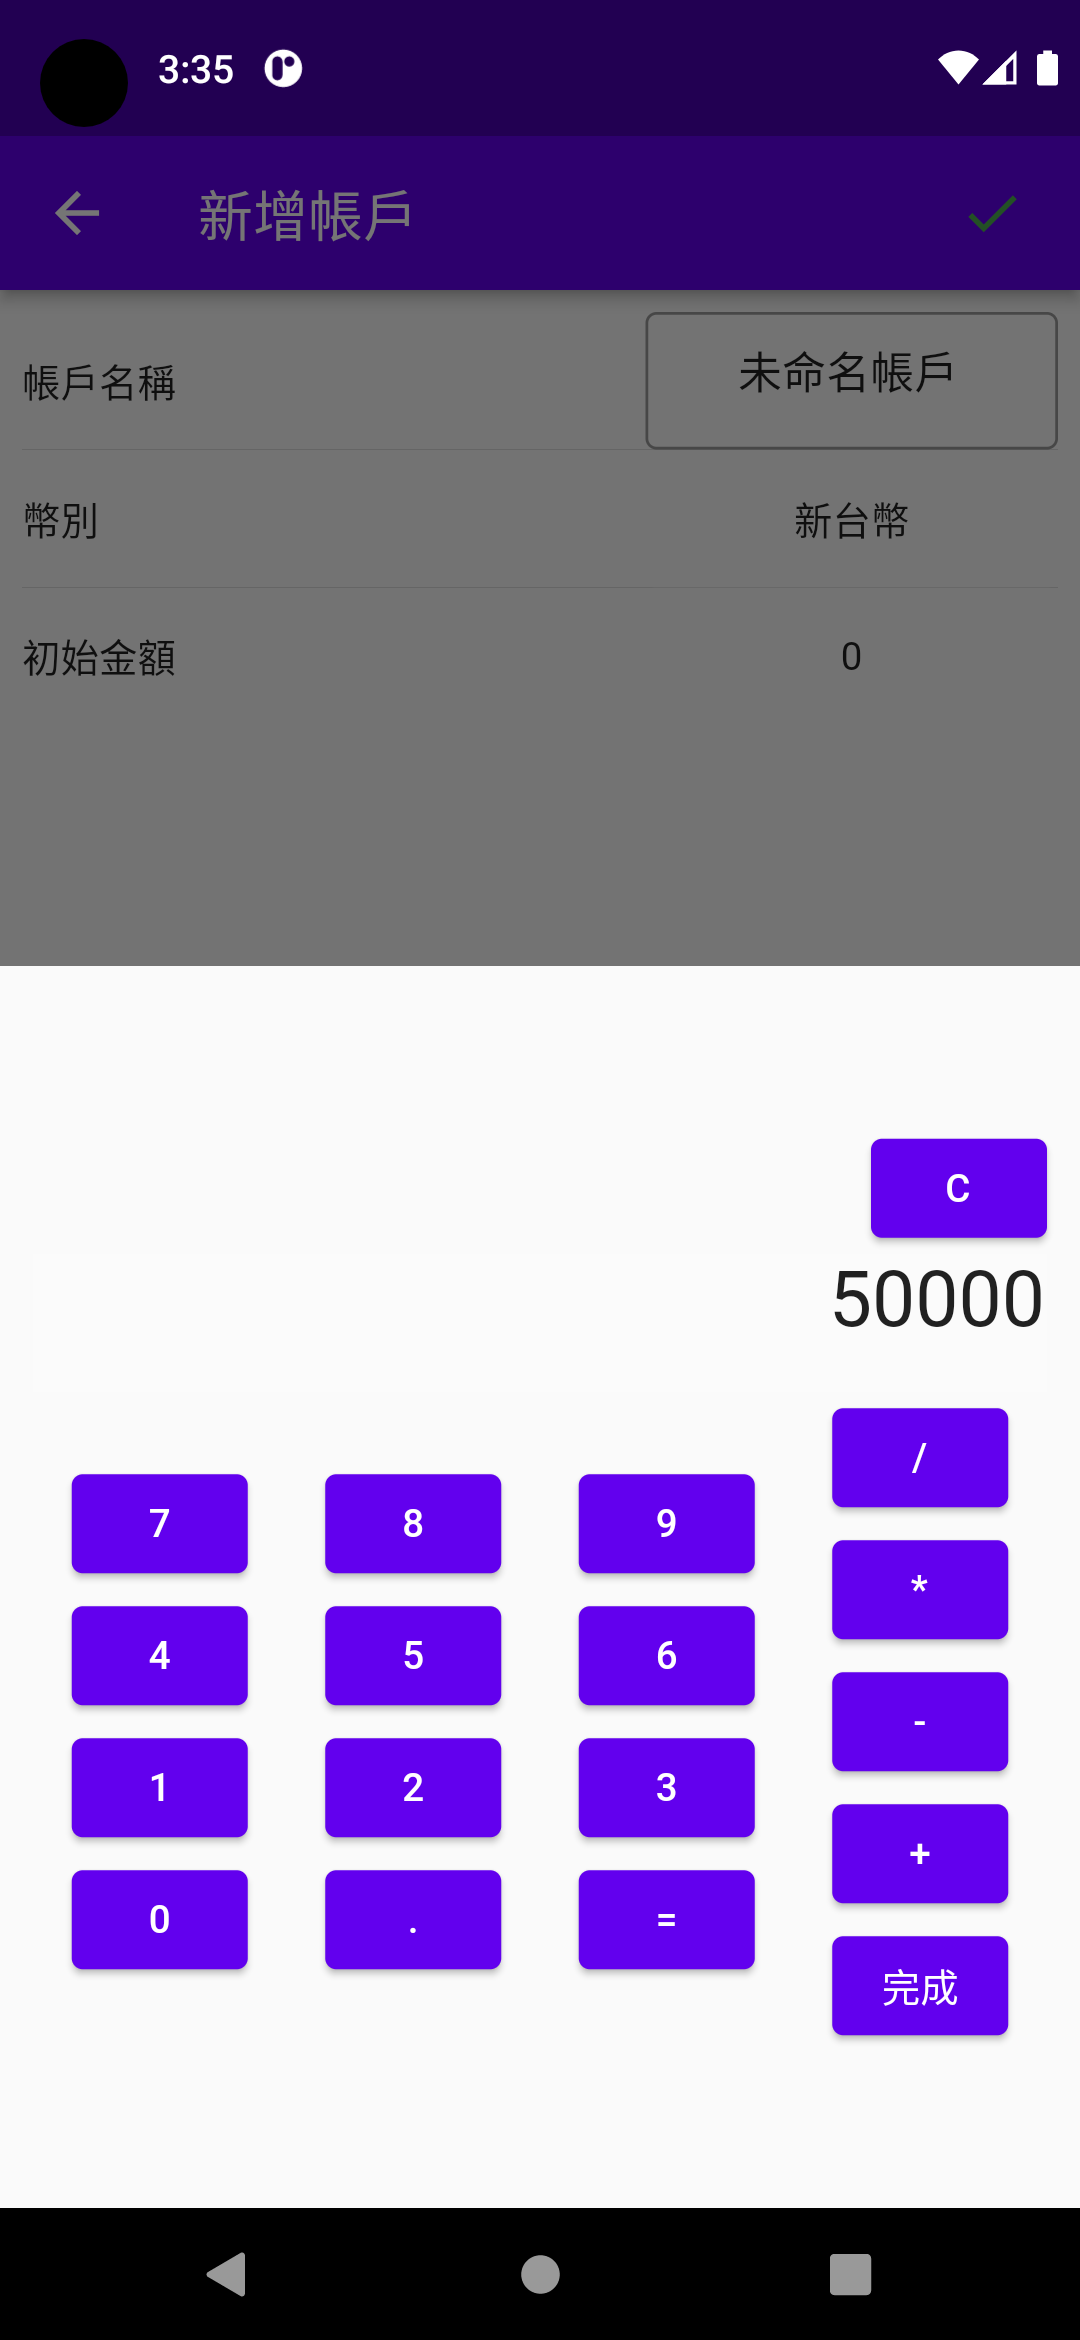
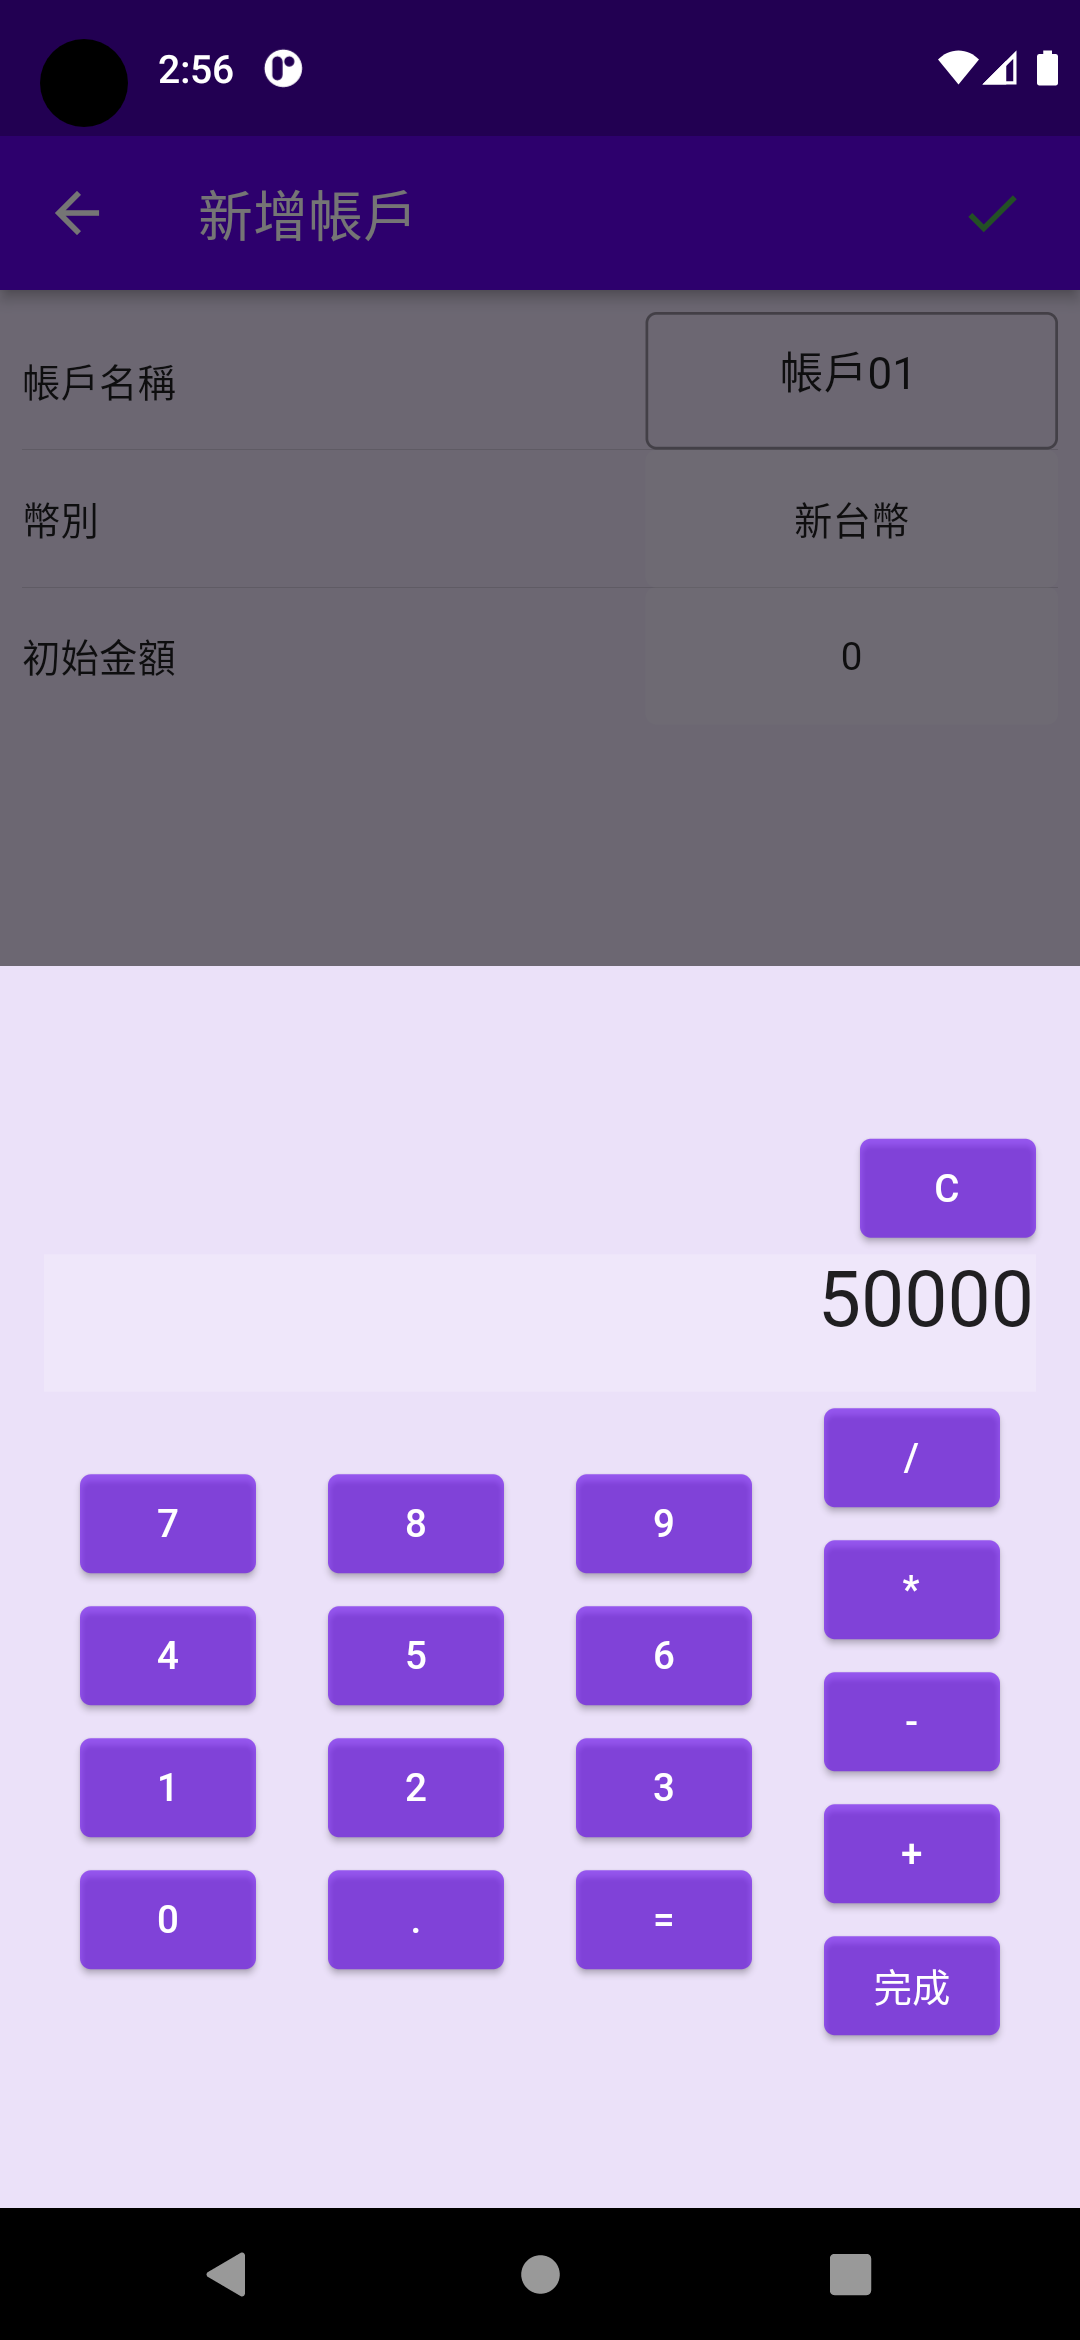
docs: edit README.md and add demo image and video

diff --git a/qq_accounting_app/lib/presentation/home/account_form/widgets/account_form_table.dart b/qq_accounting_app/lib/presentation/home/account_form/widgets/account_form_table.dart
@@ -12,44 +12,47 @@ class AccountFormTable extends StatelessWidget {
 
   @override
   Widget build(BuildContext context) {
-    return Padding(
-      padding: const EdgeInsets.all(8.0),
-      child: ListView(
-        children: ListTile.divideTiles(
-          context: context,
-          tiles: [
-            Row(
-              mainAxisAlignment: MainAxisAlignment.spaceBetween,
-              children: [
-                Text(
-                  FlutterI18n.translate(
-                      context, "home.accountForm.accountTitle"),
-                ),
-                const TitleBox(),
-              ],
-            ),
-            Row(
-              mainAxisAlignment: MainAxisAlignment.spaceBetween,
-              children: [
-                Text(
-                  FlutterI18n.translate(
-                      context, "home.accountForm.currencyType"),
-                ),
-                const CurrencyTypePickerButton(),
-              ],
-            ),
-            Row(
-              mainAxisAlignment: MainAxisAlignment.spaceBetween,
-              children: [
-                Text(
-                  FlutterI18n.translate(
-                      context, "home.accountForm.initialAmount"),
-                ),
-                const InitialAmountEnterButton(),
-              ],
-            ),
-          ],
-        ).toList(),
+    return Container(
+      color: Theme.of(context).colorScheme.primaryContainer.withOpacity(0.1),
+      child: Padding(
+        padding: const EdgeInsets.all(8.0),
+        child: ListView(
+          children: ListTile.divideTiles(
+            context: context,
+            tiles: [
+              Row(
+                mainAxisAlignment: MainAxisAlignment.spaceBetween,
+                children: [
+                  Text(
+                    FlutterI18n.translate(
+                        context, "home.accountForm.accountTitle"),
+                  ),
+                  const TitleBox(),
+                ],
+              ),
+              Row(
+                mainAxisAlignment: MainAxisAlignment.spaceBetween,
+                children: [
+                  Text(
+                    FlutterI18n.translate(
+                        context, "home.accountForm.currencyType"),
+                  ),
+                  const CurrencyTypePickerButton(),
+                ],
+              ),
+              Row(
+                mainAxisAlignment: MainAxisAlignment.spaceBetween,
+                children: [
+                  Text(
+                    FlutterI18n.translate(
+                        context, "home.accountForm.initialAmount"),
+                  ),
+                  const InitialAmountEnterButton(),
+                ],
+              ),
+            ],
+          ).toList(),
+        ),
       ),
     );
   }

diff --git a/qq_accounting_app/lib/presentation/home/account_form/widgets/amount_calculator.dart b/qq_accounting_app/lib/presentation/home/account_form/widgets/amount_calculator.dart
@@ -3,7 +3,6 @@ import 'package:flutter/material.dart';
 import 'package:flutter_bloc/flutter_bloc.dart';
 import 'package:flutter_i18n/flutter_i18n.dart';
 import 'package:math_expressions/math_expressions.dart';
-import 'package:qq_accounting_app/domain/core/amount_format.dart';
 
 import '../../../../../application/account/account_form/account_form_cubit.dart';
 import '../../../../../application/core/navigation/navigation_cubit.dart';
@@ -38,7 +37,8 @@ class AmountCalculator extends StatelessWidget {
             exp.evaluate(EvaluationType.REAL, cm).round().toString());
       }
 
-      return SizedBox(
+      return Container(
+        color: Theme.of(context).colorScheme.primaryContainer.withOpacity(0.1),
         width: mWidth,
         height: mHeight * 0.75,
         child: Padding(
@@ -172,7 +172,7 @@ class AmountCalculator extends StatelessWidget {
                           },
                           child: Text(
                             FlutterI18n.translate(context,
-                                "accountForm.amountCalculatorSavedButtonText"),
+                                "amountCalculatorSavedButtonText"),
                           ),
                         ),
                       ],

diff --git a/qq_accounting_app/lib/presentation/note/note_form/widgets/amount_calculator.dart b/qq_accounting_app/lib/presentation/note/note_form/widgets/amount_calculator.dart
@@ -1,6 +1,7 @@
 import 'package:auto_route/auto_route.dart';
 import 'package:flutter/material.dart';
 import 'package:flutter_bloc/flutter_bloc.dart';
+import 'package:flutter_i18n/flutter_i18n.dart';
 import 'package:math_expressions/math_expressions.dart';
 
 import '../../../../application/note/note_form/note_form_cubit.dart';
@@ -173,7 +174,10 @@ class AmountCalculator extends StatelessWidget {
                                 .amountSaved(state.tempAmount);
                             context.router.pop();
                           },
-                          child: const Text('完成'), // TODO 只有送出的時候才要改popup外的那個金額
+                          child: Text(
+                            FlutterI18n.translate(context,
+                                "amountCalculatorSavedButtonText"),
+                          ),
                         ),
                       ],
                     ),

diff --git a/qq_accounting_app/lib/application/core/theme/theme_state.dart b/qq_accounting_app/lib/application/core/theme/theme_state.dart
@@ -28,6 +28,13 @@ ThemeData get darkTheme => ThemeData(
 ThemeData get lightTheme => ThemeData(
       indicatorColor: const ColorScheme.light().primary,
       colorScheme: const ColorScheme.light(),
+      elevatedButtonTheme: ElevatedButtonThemeData(
+        style: ButtonStyle(
+          backgroundColor: MaterialStateProperty.all<Color>(
+            const ColorScheme.light().primary.withOpacity(0.6),
+          ),
+        ),
+      ),
       pageTransitionsTheme: const PageTransitionsTheme(
         builders: {
           TargetPlatform.android: OpenUpwardsPageTransitionsBuilder(),
@@ -35,4 +42,3 @@ ThemeData get lightTheme => ThemeData(
         },
       ),
     );
-

diff --git a/qq_accounting_app/lib/presentation/home/account_form/widgets/currency_type_sheet.dart b/qq_accounting_app/lib/presentation/home/account_form/widgets/currency_type_sheet.dart
@@ -26,7 +26,8 @@ class CurrencyTypeSheet extends StatelessWidget {
       //   _categoryList = state.incomeCategoryList;
       // }
 
-      return SizedBox(
+      return Container(
+        color: Theme.of(context).colorScheme.primaryContainer.withOpacity(0.1),
         width: mWidth,
         height: mHeight * 0.75,
         child: Column(

diff --git a/README.md b/README.md
@@ -1,32 +1,30 @@
 # qq-accounting-app
-
-
-
-
 ---
+## 資料庫 與 介面呈現
+
+詳細的 [操作介面](https://www.cakeresume.com/portfolios/project-2-33a887) 或 [操作影片](https://drive.google.com/drive/folders/13ETyAQSxGWwuAUzo-ixPRfSphgR8lwrO)，您可以下載這份專案，或是前往連結觀看。
 ## 關於我
-我是 Rita，我是個喜歡動腦、探索新知、學習新事物的科技夢想家，細心、勤奮、擁有良好的自學習慣與快速學習的能力是我的優點。我畢業於東吳大學巨量資料管理學院，主修數據分析。在學期間學會爬蟲、資料正規化、建成資料庫、資料視覺化與資料分析...等技能。因為對前後端有濃厚的興趣，自學了 GCP 與 Flutter，試做的過程中發現自己熱衷於 APP 領域，並從此一腳踏入該領域。
+我是 Rita ，是個喜歡動腦、探索新知、學習新事物的科技夢想家，細心、勤奮、擁有良好的自學習慣與快速學習的能力是我的優點。我大學主修數據分析。在學期間學會爬蟲、資料正規化、建成資料庫、資料視覺化與資料分析...等技能。因為對前後端有濃厚的興趣，自學了 GCP 與 Flutter 並於試做的過程中發現自己熱衷於 APP 領域，從此一腳踏入該領域，畢業後前往中央研究院工作，負責系統的全端開發。
 
 ## 關於這個作品
-這個 記帳APP 是我在空閒時間自製的作品，創作動機是 Play 商店裡的記帳軟體五花八門，不過許多軟體操作繁複而且塞滿了一堆廣告，於是就誕生了這個作品。從0到有林林總總相加起來 **開發總時長為 3 週**。
+這個 記帳APP 是我在空閒時間自製的作品，創作動機是 Play 商店裡的記帳軟體五花八門，不過許多軟體操作繁複而且塞滿了一堆廣告，於是就誕生了這個作品。
+- 功能：帳本記錄、文字化帳戶列表、視覺化統計圖表、字體調適、日期區間篩選...等。
+- 開發時長：空閒時間，從0到有，林林總總相加起來 **開發總時長為 3 週**。。
 
 在執行專案之前，先於 Flutter 的專案路徑執行
 
 `
 flutter pub run build_runner build --delete-conflicting-outputs`
 
-### 主要開發工具
-- 前端：Flutter
-    - 狀態管理：Bloc
-    - Design pattern： Domain-Driven Design
-- 後端：SQLite
-
-### 功能
-- 記帳
-- 文字化帳戶列表
-- 視覺化統計圖表
-- 日期區間篩選
-
-
-### 介面呈現
-詳細的[操作介面](https://www.cakeresume.com/portfolios/project-2-33a887) 或 [操作影片](https://drive.google.com/drive/folders/13ETyAQSxGWwuAUzo-ixPRfSphgR8lwrO)，您可以下載這份專案，或是前往連結觀看。
+## 主要工具
+- **前端**
+    - Flutter
+        - Design pattern： Domain-Driven Design
+        - dependencies  
+        ![](https://i.imgur.com/knv2qKY.png)
+- **後端**
+    - SQLite
+    - Firestore (如要做帳戶備份的話可增加)
+- **版本控制與資料庫規劃**
+    - Git
+    - Xmind
